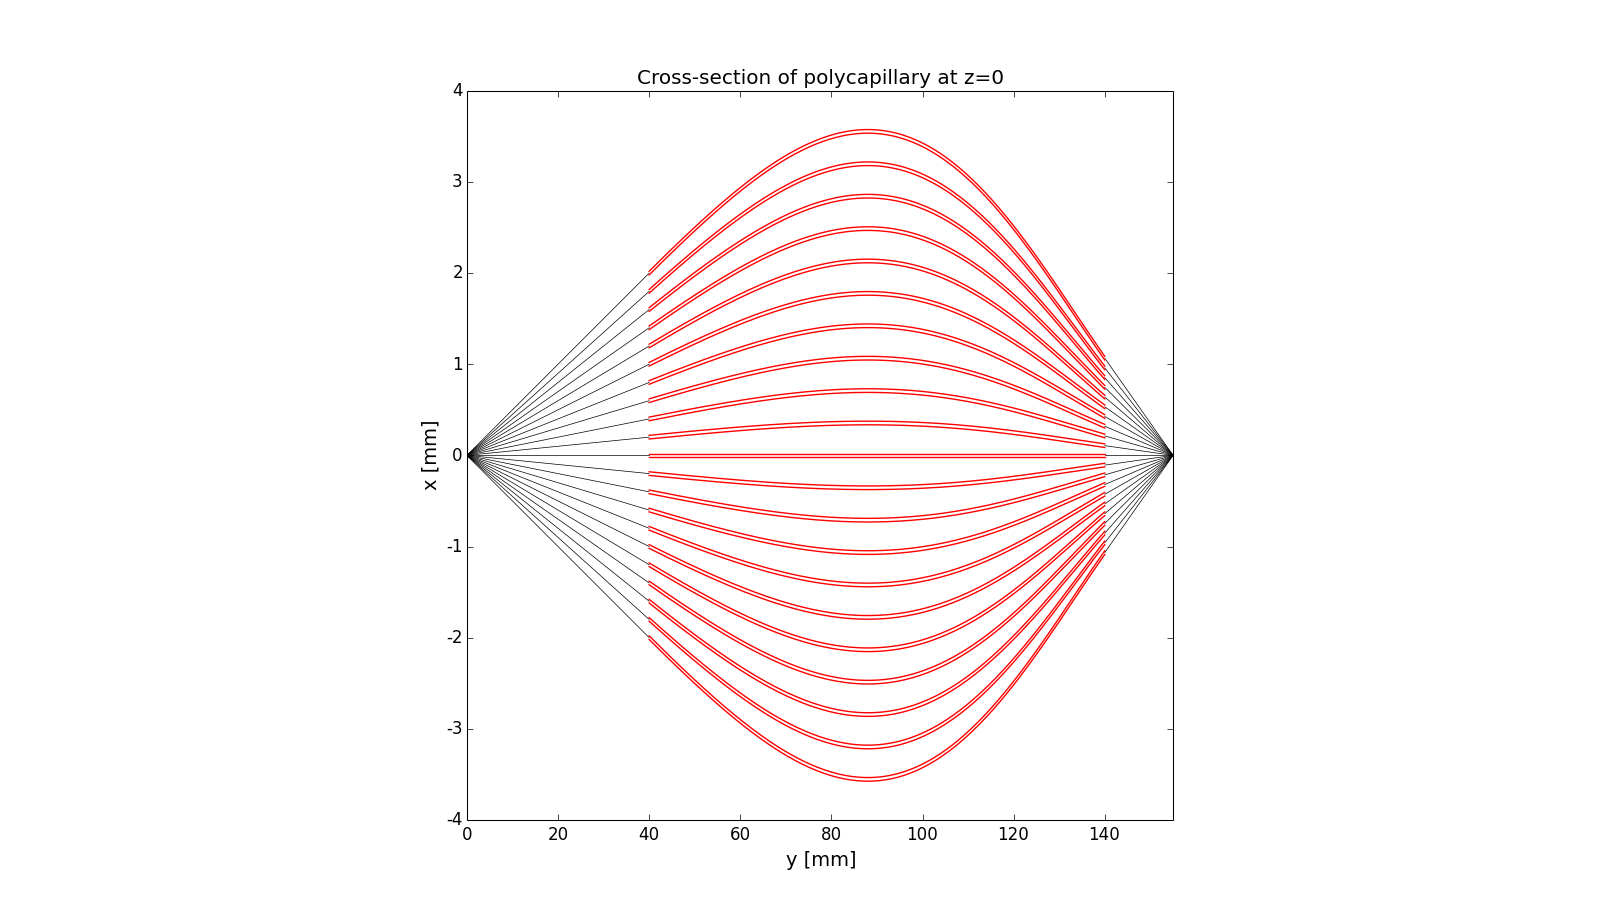
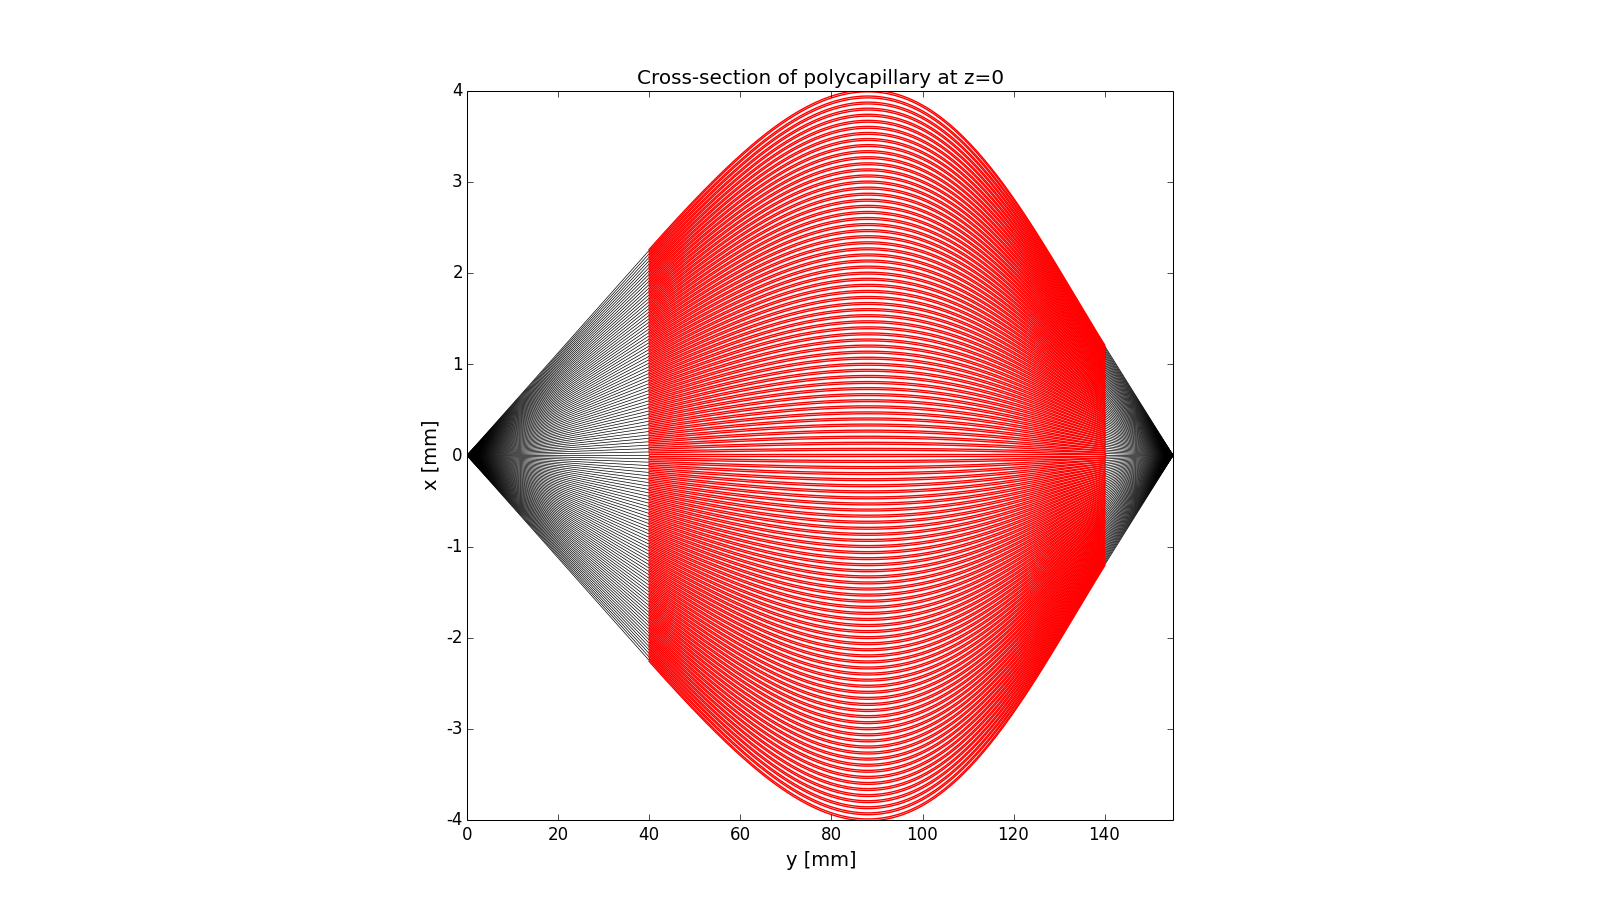
60 x 0.01mm, proper shape

Changed region(s): [[0.2812, 0.0922, 0.75, 0.9221]]

diff --git a/realisticPolycapillary.py b/realisticPolycapillary.py
@@ -34,7 +34,7 @@ ym =    88.     # capillaries turning point
 hMax =  4.0     # maximum possible distance from y = 0 axis
 Din =   4.5     # lens entrance diameter
 Dout =  2.4     # lens exit diameter
-rIn =   0.02     # lens radius
+rIn =   0.01     # lens radius
 
 # Surce parameters
 distx       = 'flat'
@@ -115,8 +115,9 @@ def build_beamline(nrays=1e4):
     beamLine.entScreen = rsc.Screen(beamLine, 'EntranceScreen',(0,y1,0))
 
     beamLine.capillaries = []
-    for h_it in range(-10,11):
-        h_in = h_it * Din/20.
+    N_ = 60         # Quick number of capillaries TODO: remove this
+    for h_it in range(-N_,N_+1):
+        h_in = h_it * Din/2./N_
         roll = 0.
         p = getPolyCoeffs(y0,y1,ym,y2,yf,h_in,Din,Dout,hMax)
         capillary = BentCapillary(beamLine, 'BentCapillary', [0,0,0],
@@ -124,7 +125,7 @@ def build_beamline(nrays=1e4):
                 rIn=rIn, curveCoeffs=p, y2=y2)
         capillary.h_in = h_in
         beamLine.capillaries.append(capillary)
-        print h_in, 'dupa', h_in*Dout/Din
+        print 'h_in:', h_in, ' h_out:', h_in*Dout/Din
 
     beamLine.exitScreen = rsc.Screen(beamLine,'ExitScreen', (0,y2,0))
 
@@ -173,7 +174,7 @@ def main():
     """
     Lens Exit Screen
     """
-    xLimits = [-Dout, Dout]
+    xLimits = [-Dout/2, Dout/2]
     zLimits = xLimits #[-3*rIn, 3*rIn]
     plot = xrtp.XYCPlot('ExitScreen', (1,),
         xaxis=xrtp.XYCAxis(r"$x$", 'mm', data=raycing.get_x, bins=256, ppb=2, limits=xLimits),
